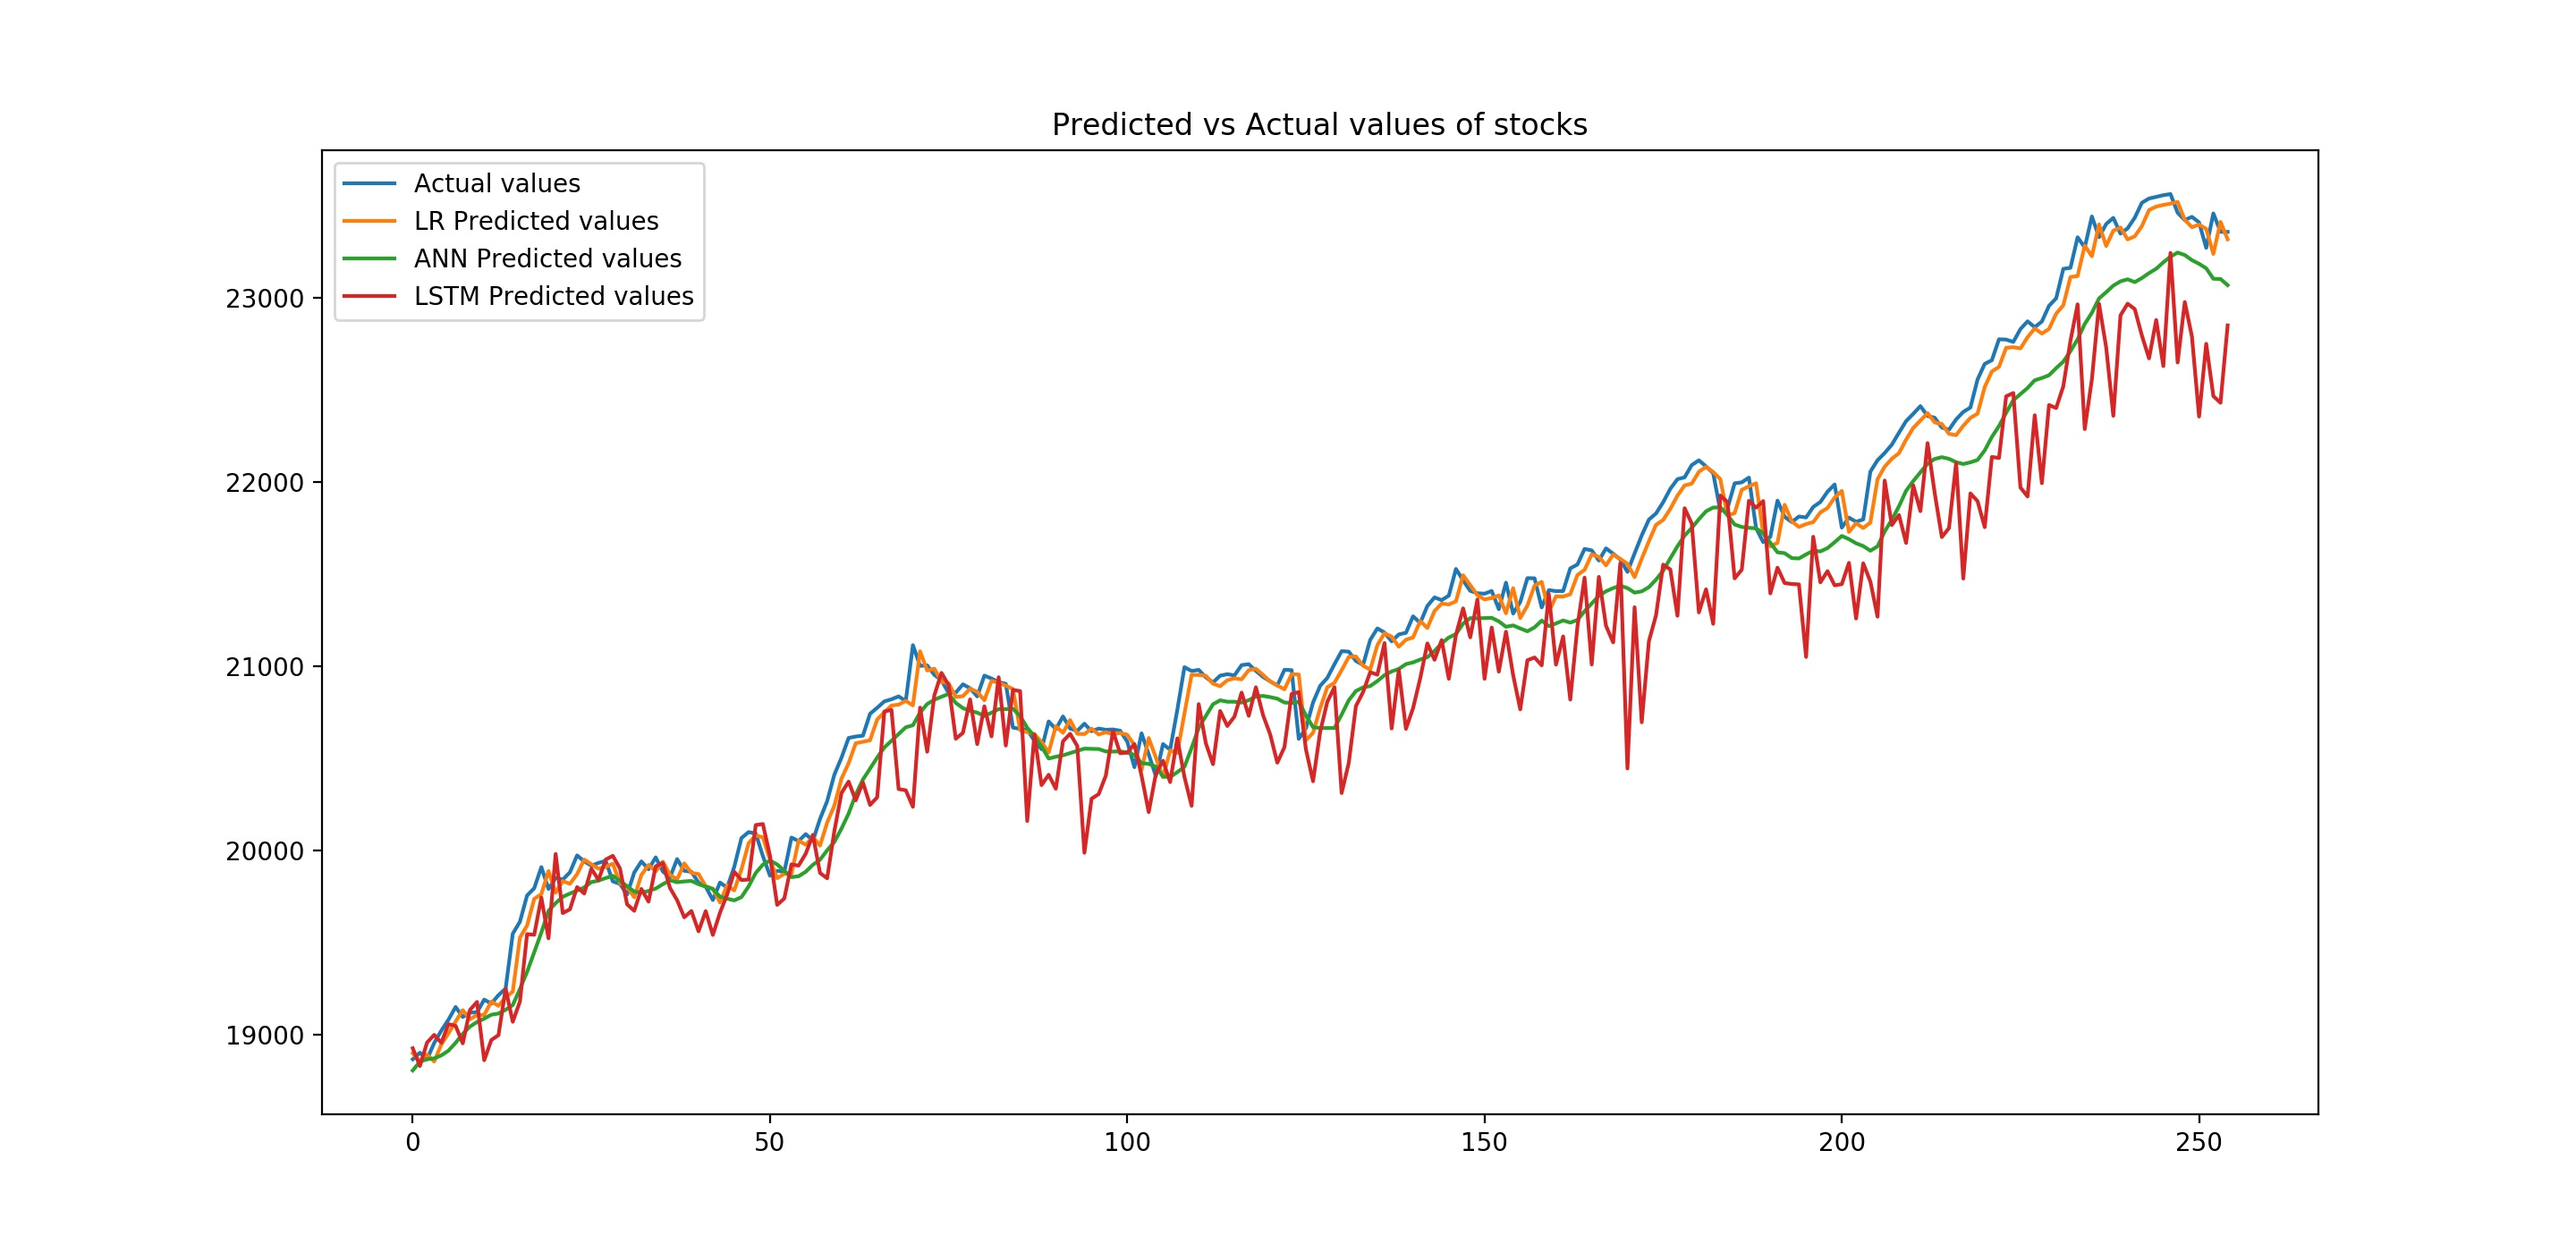
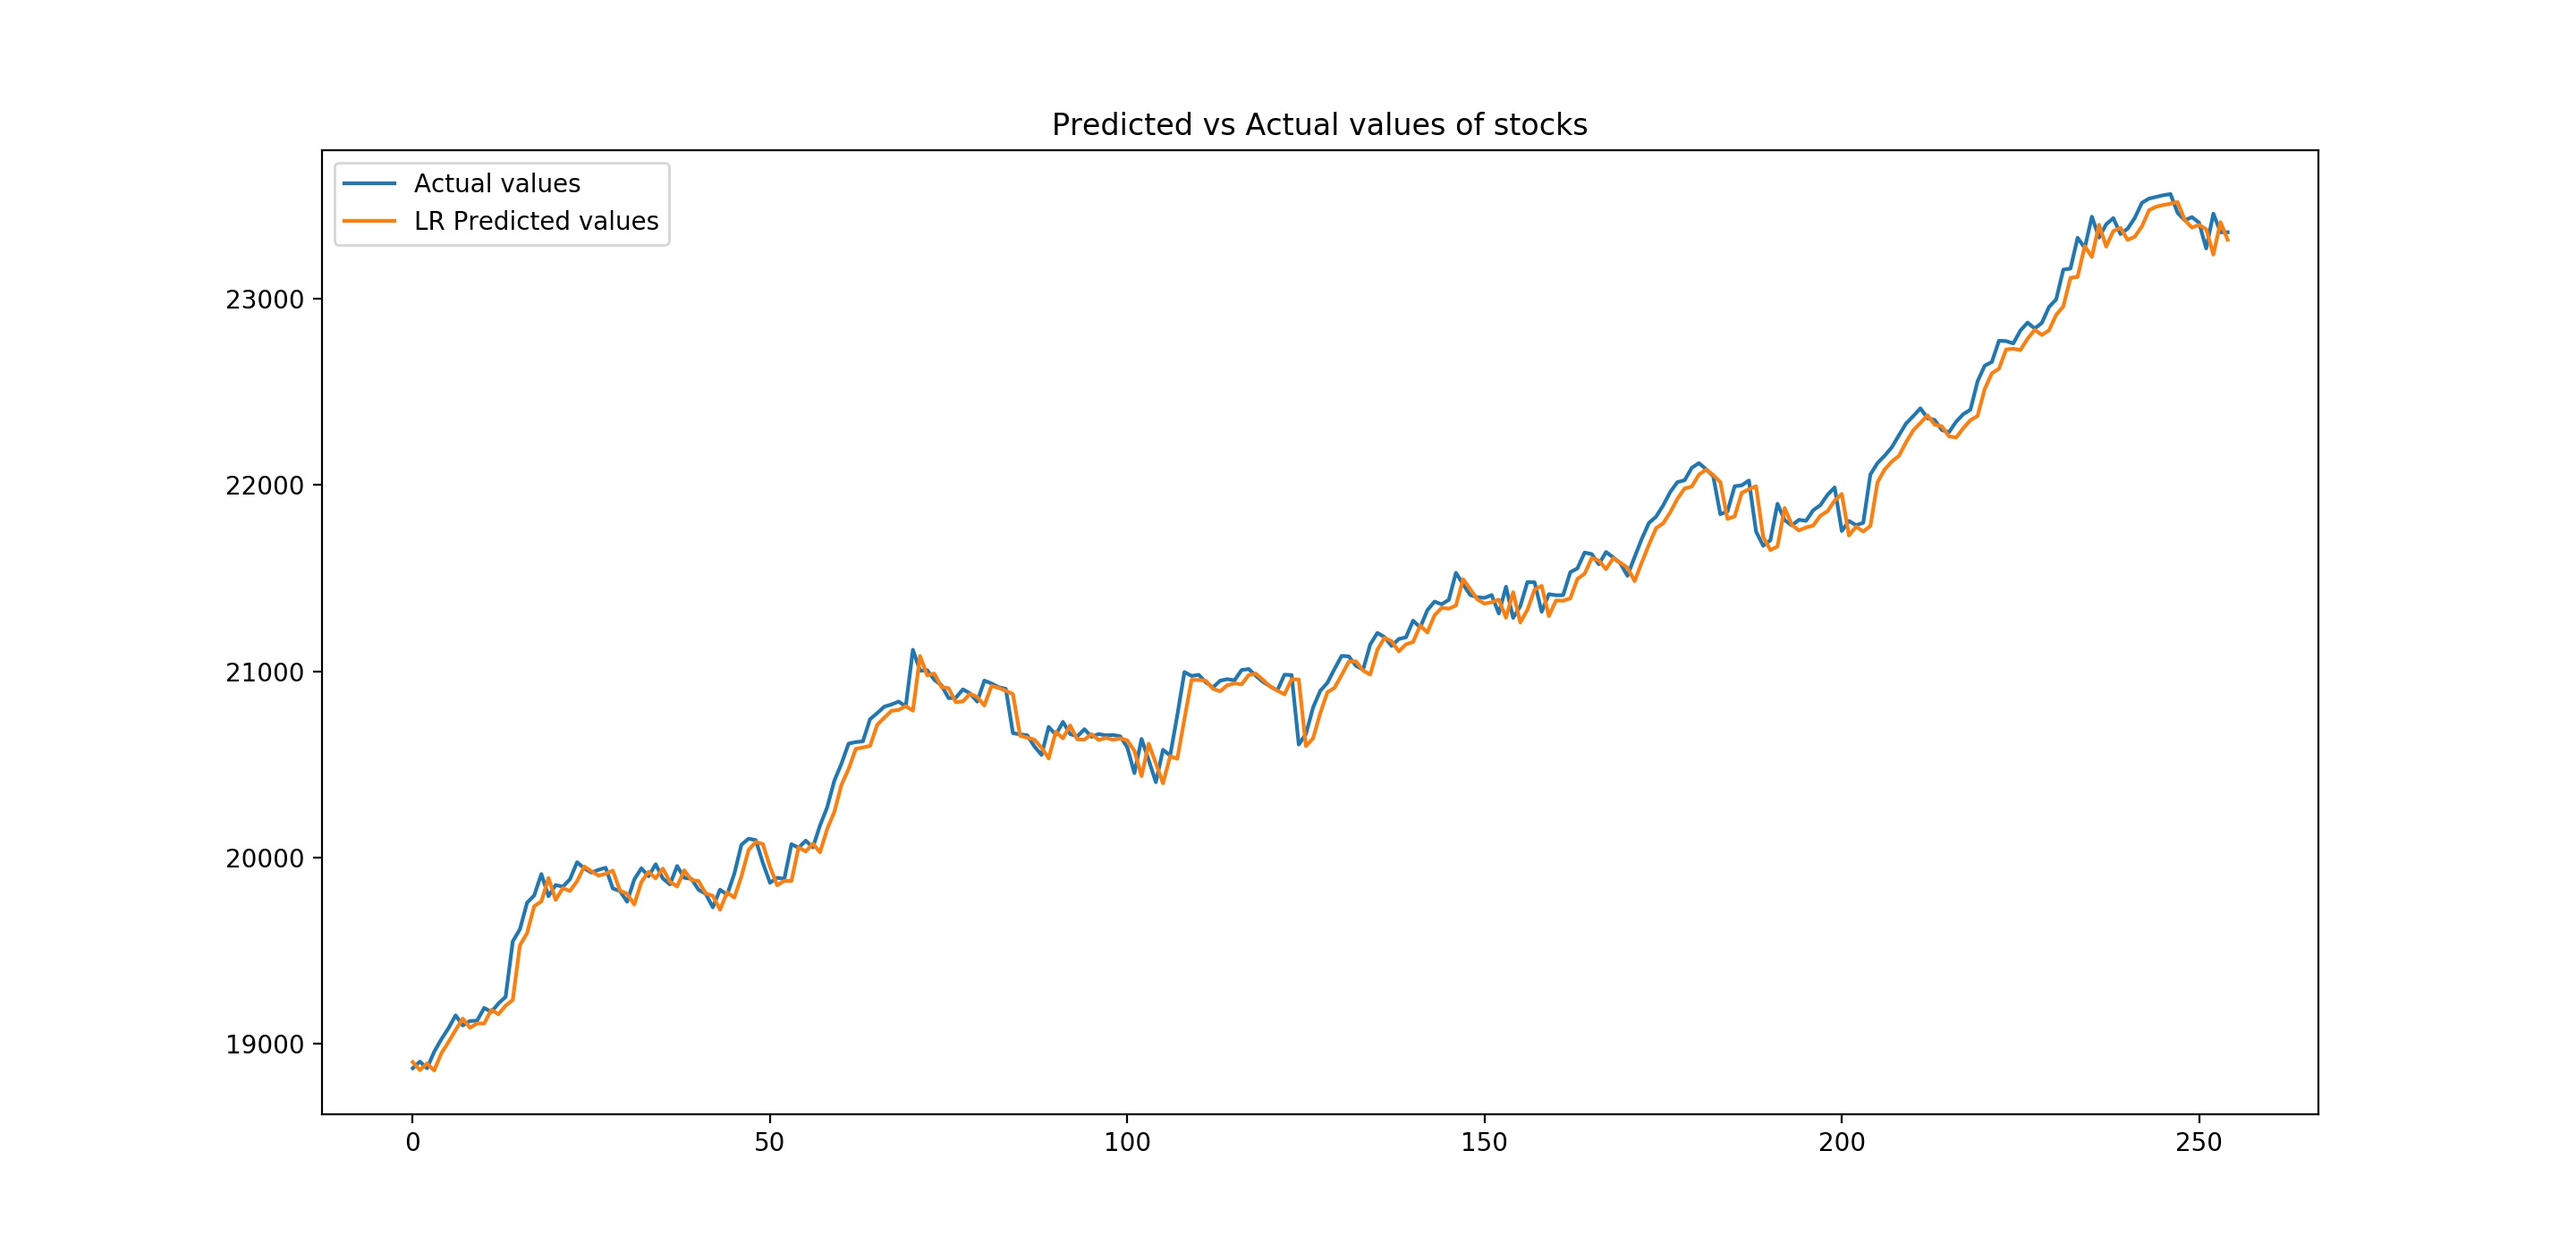
xkcd

diff --git a/models/tf_ANN.py b/models/tf_ANN.py
@@ -6,7 +6,7 @@ import numpy as np
 
 def ann_prediction(df_train, df_test):
     # Hyper-params
-    learning_rate = 0.05
+    learning_rate = 0.035
     n_stocks = 5
     n_neurons_1 = 40
     n_neurons_2 = 20
@@ -102,7 +102,8 @@ def ann_prediction(df_train, df_test):
                 # Prediction
                 pred = net.run(out, feed_dict={X: X_test})
                 line2.set_ydata(pred)
-                plt.title('Epoch ' + str(e) + ', Batch ' + str(i))
+                # plt.title('Epoch ' + str(e) + ', Batch ' + str(i))
+                plt.title('ANN vs actual prices scaled data')
                 file_name = 'models/img/epoch_' + str(e) + '_batch_' + str(i) + '.jpg'
                 plt.savefig(file_name)
                 plt.pause(0.01)

diff --git a/models/tf_LSTM.py b/models/tf_LSTM.py
@@ -14,10 +14,10 @@ def ltsm_prediction():
     data_to_use = tesla_stocks['Close'].values
     epochs = 200
     batch_size = 5
-    learning_rate = 0.0005
+    learning_rate = 0.00025
     hidden_layer_size = 30
-    dropout_rate = 0.95
-    gradient_clip_margin = 100
+    dropout_rate = 0.98
+    gradient_clip_margin = 5
     window_length = 5
 
 
@@ -194,7 +194,7 @@ def ltsm_prediction():
     plt.plot(sup, label='Training data')
     plt.plot(test_results, label='Testing data')
     plt.legend()
-    plt.show()
+    # plt.show()
     plt.savefig("lstm.jpg")
     session.close()
     return tests_new_rescaled

diff --git a/main.py b/main.py
@@ -35,8 +35,8 @@ plt.figure(figsize=(16, 7))
 plt.title("Predicted vs Actual values of stocks")
 plt.plot(actual_values, label="Actual values")
 plt.plot(linear_predicted_values, label="LR Predicted values")
-plt.plot(ann_predicted_values, label="ANN Predicted values")
-plt.plot(lstm_predicted_values, label="LSTM Predicted values")
+# plt.plot(ann_predicted_values, label="ANN Predicted values")
+# plt.plot(lstm_predicted_values, label="LSTM Predicted values")
 plt.legend()
 plt.savefig("comparison.jpg")
 # plt.show()
